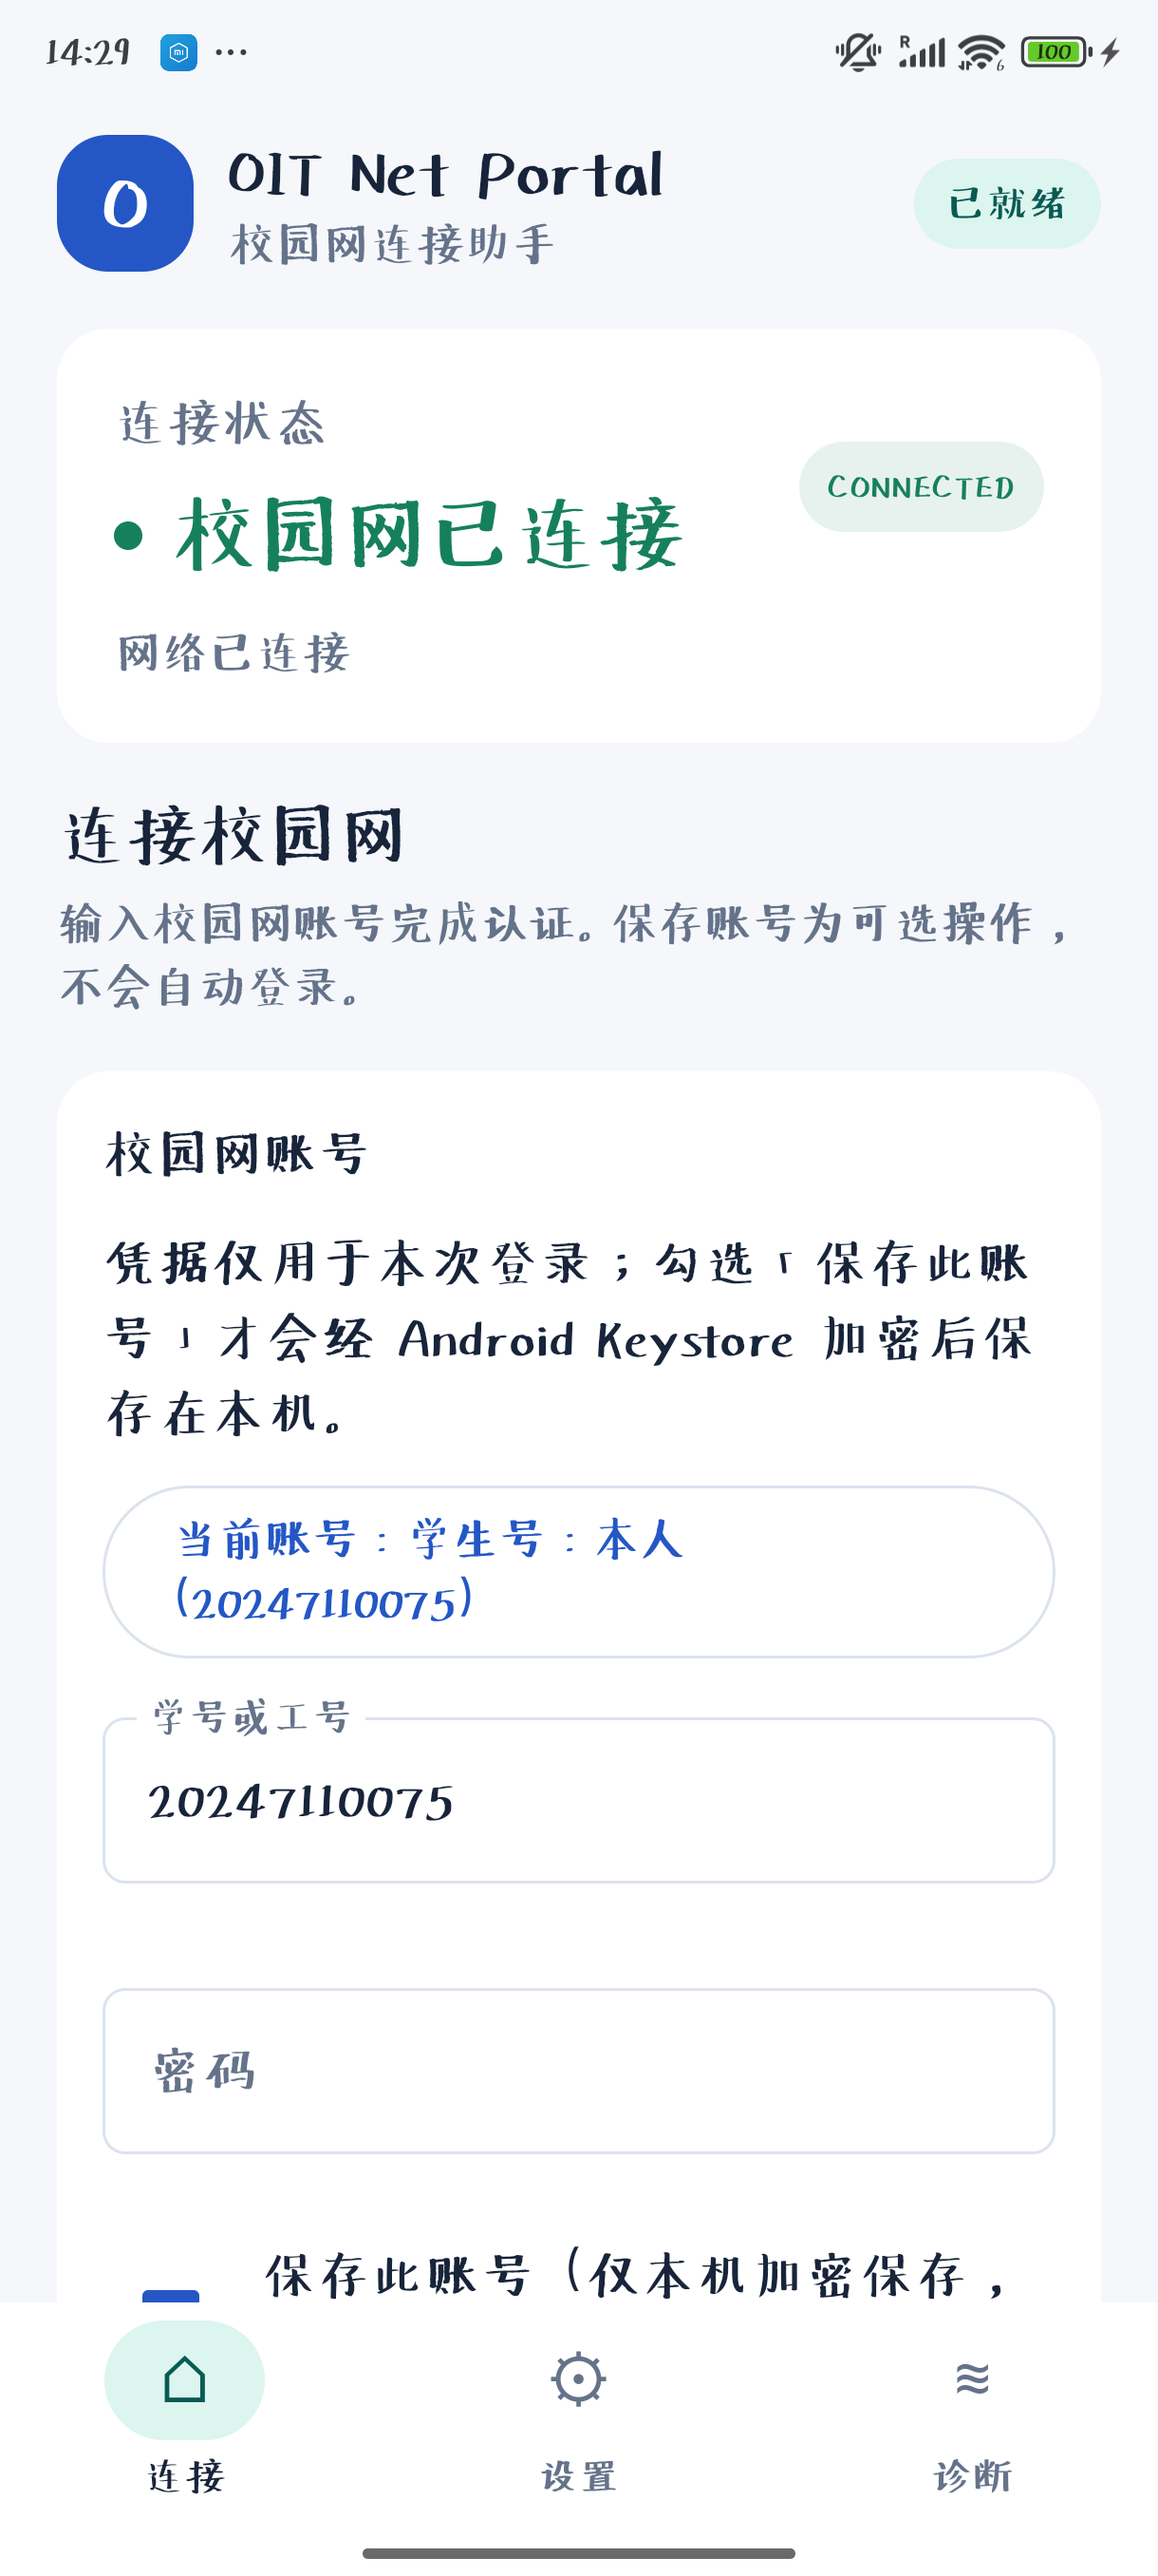
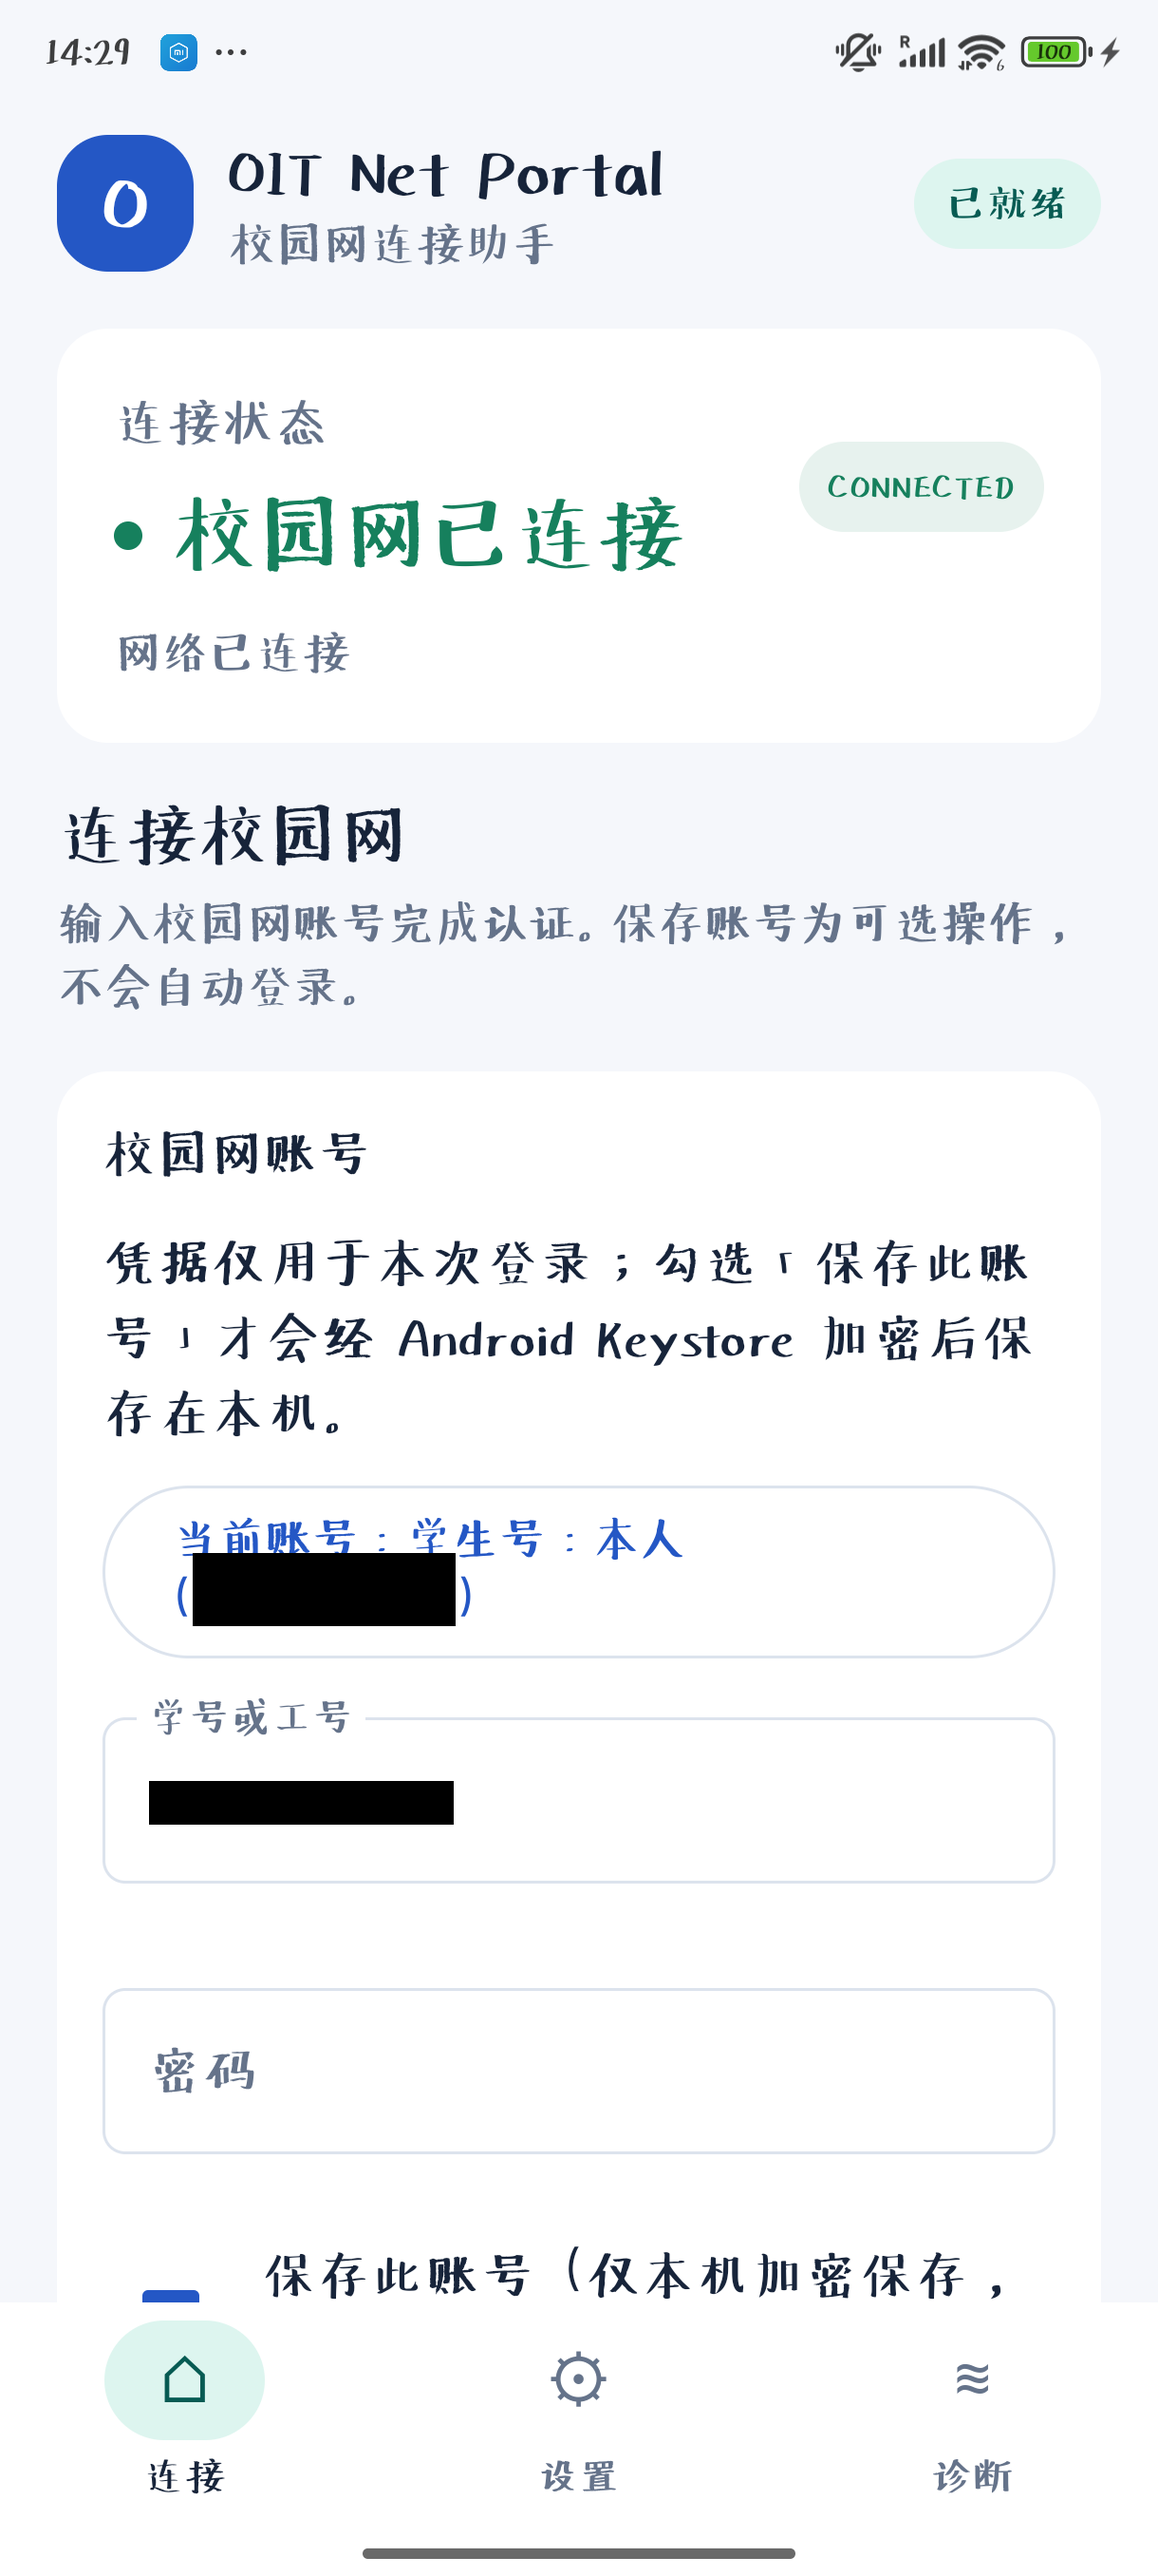
chore(validation): 遮盖验收截图里的学号 + 补录最近任务与阅读页证据
本仓库是公开仓库，验收截图里原本直接可见学号。按用户决定：
新截图遮盖后入库，已入库的 01~20 也用新提交遮盖（不动 git 历史）。

- 模板匹配定位整串学号出现的位置（13 处，score=1.000），
  手工补 4 处最近任务卡片里被遮挡/缩小的片段（21、24），共 17 处黑块。
- 「当前账号：学生号：」「学号或工号」等标签与界面结构完整保留，不影响证据效力。
- 复检：整串与 4 位前缀在全部 25 张图、多个尺度上均 0 命中。
- 补录 5 张此前未入库的证据：21~24 为 HyperOS 最近任务界面
  （含「OIT 卡片被划掉」这一 P5 现象的现场），25 实为阅读页【 异能】高清实拍，
  文件名从 25-diagnostics-after-swipe.png 更正为 25-bracket-reading-page.png。
- 报告补证据表与隐私处理说明。

注意：git 历史里仍保留着未遮盖的原始图片，彻底清除需 git filter-repo 重写历史。

Changed region(s): [[0.1557, 0.5885, 0.4049, 0.6504], [0.1246, 0.6814, 0.4049, 0.7124]]

diff --git a/android/validation/2026-11-01-redmi-android15/report.md b/android/validation/2026-11-01-redmi-android15/report.md
@@ -278,3 +278,15 @@ Android testDebugUnitTest                53 例（未改动）
 | `17-end-session.png` | 结束本次会话 |
 | `18-captive-detected.png` | 结束会话后的连接页 |
 | `20-final-notification.png` | 验收结束时通知栏最终状态 |
+| `21-recents.png` | HyperOS 竖向最近任务列表：OIT 卡片被「AA 小说下载阅读器」卡片遮住一角（可见「（202…」「2024…」片段，已遮盖） |
+| `22-recents-oit.png` | HyperOS 横滑最近任务：Chrome / 番茄免费小说 / 设置 —— **OIT 卡片已被划掉**（划卡杀进程的现场） |
+| `23-recents-scan.png` | HyperOS 最近任务：设置卡片 + Shizuku 卡片（OIT 卡片已不在列表里） |
+| `24-recents-oit-front.png` | OIT Net Portal 在最近任务里的前台卡片（连接状态 CONNECTED，右侧露出阅读页边缘） |
+| `25-bracket-reading-page.png` | 「超级看书」阅读页 `【 异能】` 高清实拍（**Hanyi 新蒂黑板报体**，括号已嵌入字体本体） |
+
+> ⚠ **隐私处理（2026-11-01）**：本仓库是**公开仓库**，截图里原本直接可见学号。
+> 现已把 `01/05/14/15/18/19/21/24` 共 8 张截图里的学号用黑块遮盖
+> （整串 13 处 + 卡片里被遮挡的片段 4 处，共 17 处）。
+> 「当前账号：学生号：」「学号或工号」等标签与界面结构完整保留，不影响证据效力。
+> **注意：git 历史里仍保留着未遮盖的原始图片** —— 彻底清除需要用 `git filter-repo` 重写历史并强推。
+
